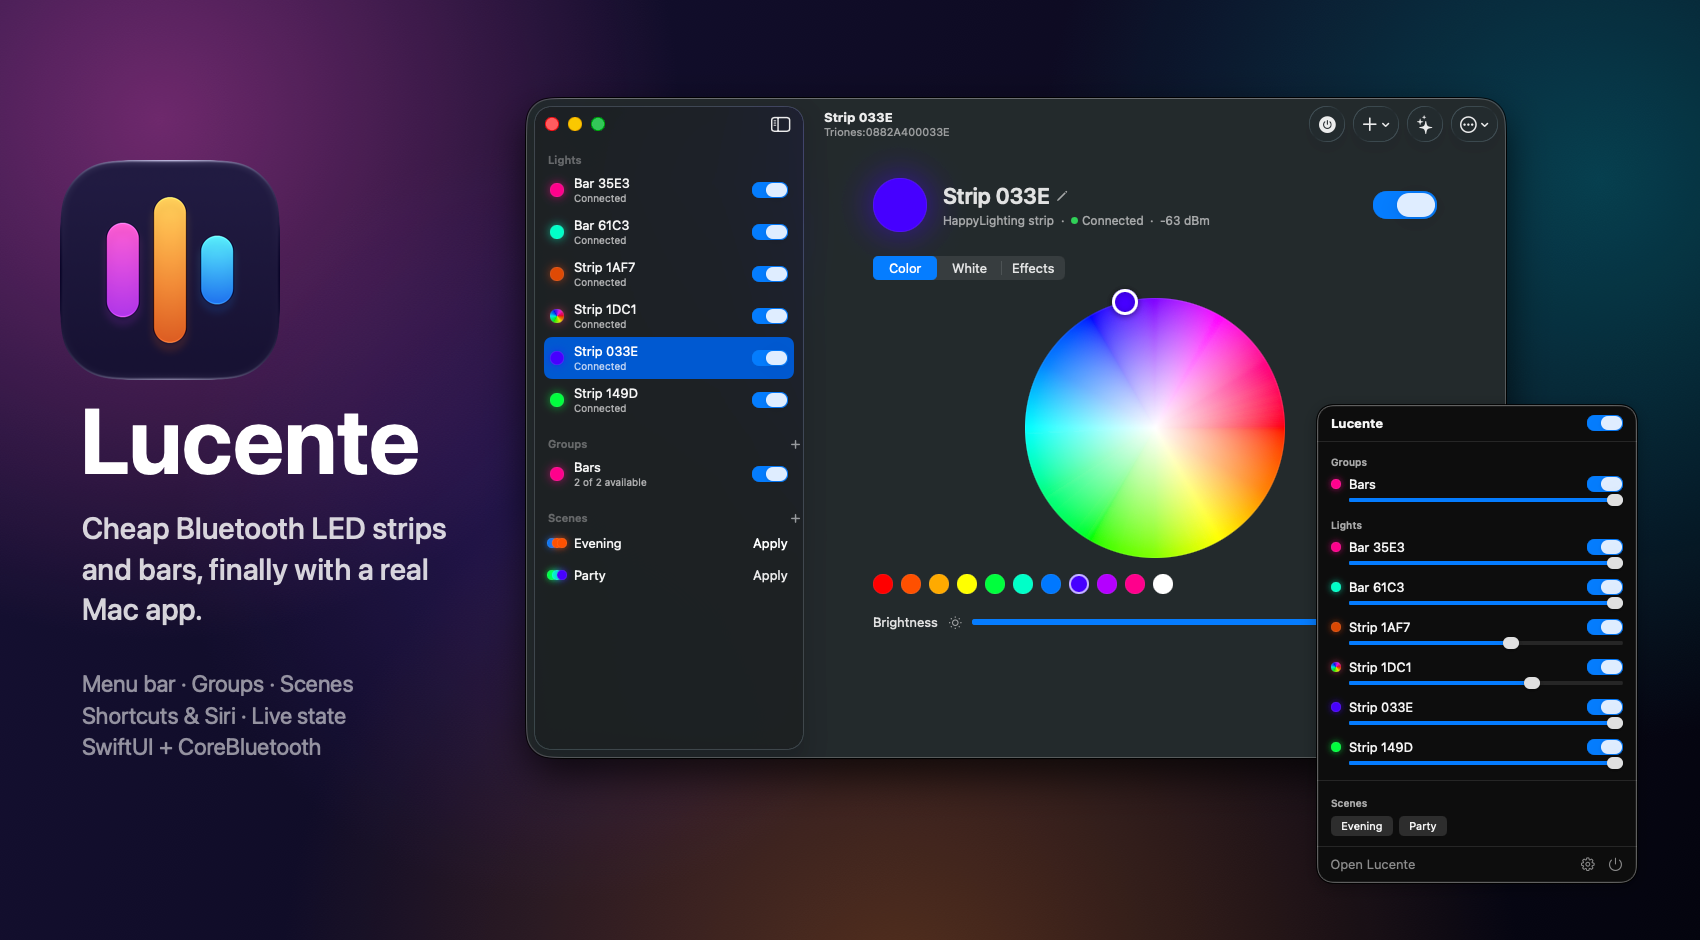
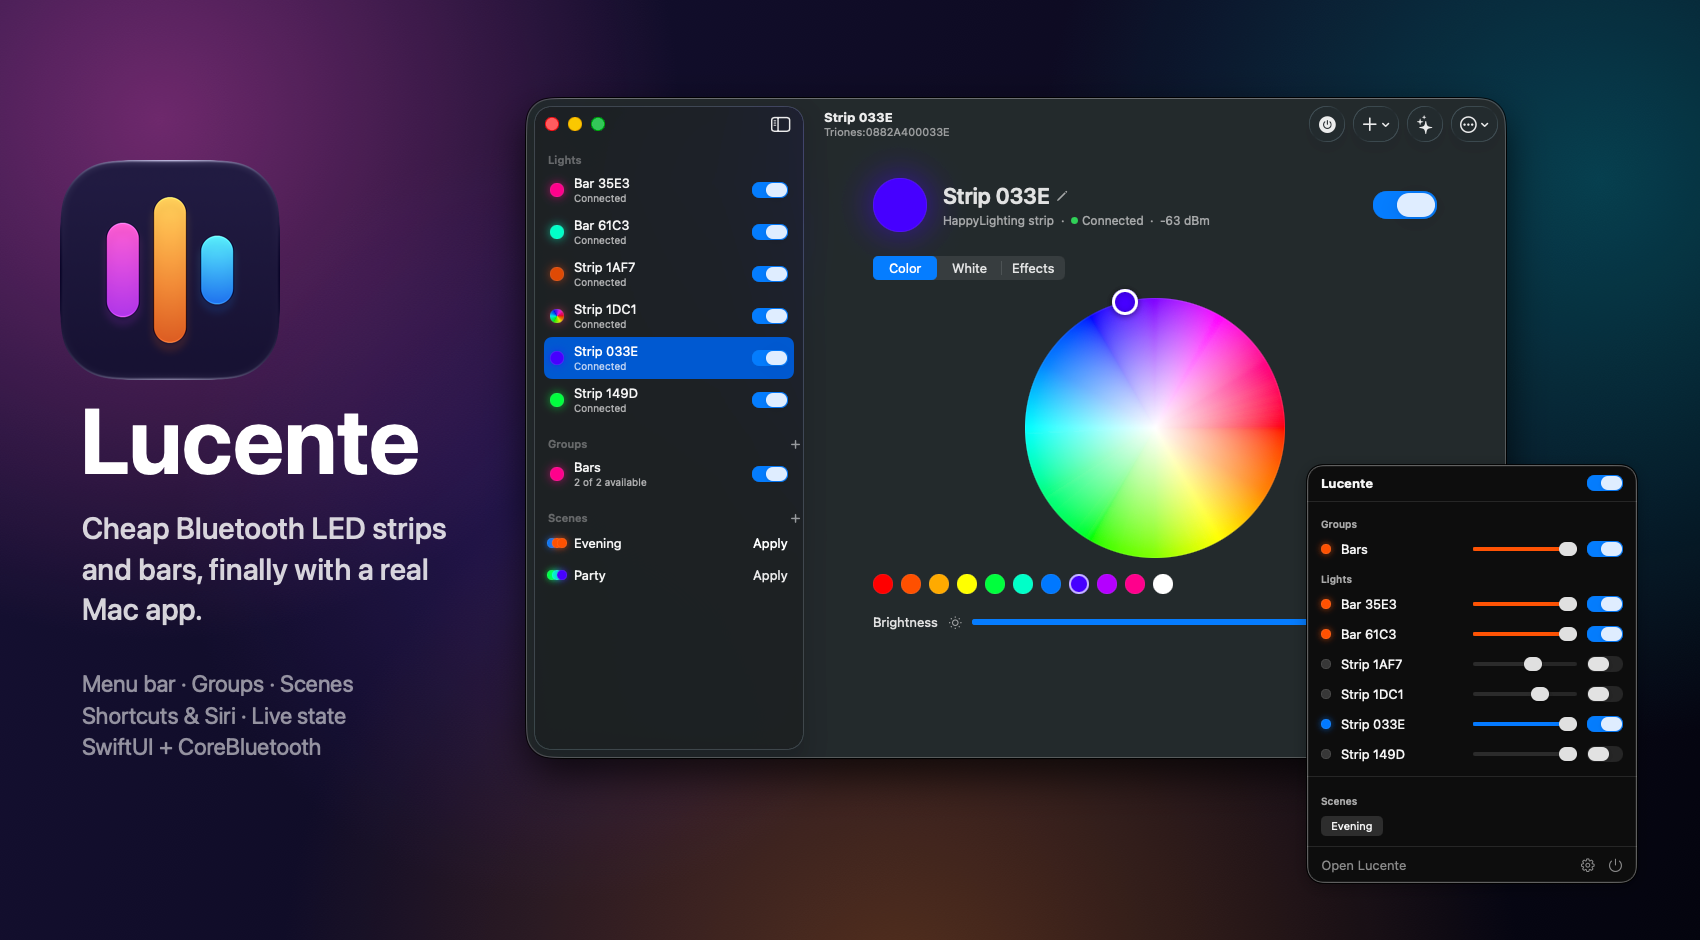
style(menubar): one-line rows with aligned, tinted brightness sliders
The brightness slider sat on its own line under each name, indented, running
under the power switch, and only appeared for lights that were on, so rows had
uneven heights. Each row is now a single line: swatch, name, a fixed-width
slider column, then the switch. Sliders line up down the panel, take the
light's colour (accent for pale colours, white and effects), and stay in place
but disabled while a light is off. Panel and hero screenshots refreshed.

Changed region(s): [[0.7482, 0.4319, 0.9665, 0.9255]]

diff --git a/App/Views/MenuBarPanel.swift b/App/Views/MenuBarPanel.swift
@@ -23,7 +23,7 @@ struct MenuBarPanel: View {
             Divider()
 
             ScrollView {
-                VStack(alignment: .leading, spacing: 4) {
+                VStack(alignment: .leading, spacing: 2) {
                     if store.lights.isEmpty {
                         Text(store.availability == .ready ? "Looking for lights…" : "Bluetooth isn't available.")
                             .foregroundStyle(.secondary)
@@ -91,7 +91,7 @@ struct MenuBarPanel: View {
             .padding(.horizontal, 14)
             .padding(.vertical, 10)
         }
-        .frame(width: 320)
+        .frame(width: 330)
     }
 }
 
@@ -103,10 +103,13 @@ private struct PanelHeading: View {
         Text(title)
             .font(.caption.weight(.semibold))
             .foregroundStyle(.secondary)
-            .padding(.top, 6)
+            .padding(.top, 8)
+            .padding(.bottom, 2)
     }
 }
 
+/// One line per light or group: name, brightness in a fixed column so the sliders line up down
+/// the panel, then the power switch. Off lights keep a disabled slider so rows don't jump around.
 private struct PanelRow: View {
     var state: LightState
     var name: String
@@ -114,23 +117,37 @@ private struct PanelRow: View {
     var available: Bool
     var send: (LightCommand) -> Void
 
+    static let sliderWidth: CGFloat = 104
+
     var body: some View {
-        VStack(alignment: .leading, spacing: 2) {
-            HStack(spacing: 8) {
-                Swatch(state: state, size: 10)
-                Text(name).lineLimit(1)
-                Spacer()
-                if capabilities.contains(.power) {
-                    PowerToggle(isOn: state.power == true) { send(.power($0)) }
+        HStack(spacing: 10) {
+            Swatch(state: state, size: 10)
+            Text(name)
+                .lineLimit(1)
+                .truncationMode(.tail)
+                .frame(maxWidth: .infinity, alignment: .leading)
+            Group {
+                if capabilities.contains(.brightness) {
+                    CompactSlider(value: state.brightness ?? 100) { send(.brightness($0)) }
+                        .tint(tint)
+                        .disabled(state.power != true)
+                } else {
+                    Color.clear
                 }
             }
-            if capabilities.contains(.brightness), state.power == true {
-                CompactSlider(value: state.brightness ?? 100) { send(.brightness($0)) }
-                    .padding(.leading, 18)
+            .frame(width: Self.sliderWidth)
+            if capabilities.contains(.power) {
+                PowerToggle(isOn: state.power == true) { send(.power($0)) }
             }
         }
-        .padding(.vertical, 3)
+        .frame(minHeight: 28)
         .opacity(available ? 1 : 0.5)
+    }
+
+    /// The light's own color, unless it's so pale the fill would vanish on a light panel.
+    private var tint: Color {
+        guard state.mode == .color, let rgb = state.color, rgb.hsv.saturation > 0.25 else { return .accentColor }
+        return Color(rgb)
     }
 }
 
@@ -143,7 +160,7 @@ private struct CompactSlider: View {
 
     var body: some View {
         Slider(value: $local, in: 1...100, onEditingChanged: { editing = $0 })
-            .controlSize(.mini)
+            .controlSize(.small)
             .onAppear { local = Double(value) }
             .onChange(of: value) { _, new in if !editing { local = Double(new) } }
             .onChange(of: local) { _, new in if Int(new.rounded()) != value { onChange(Int(new.rounded())) } }

diff --git a/README.md b/README.md
@@ -55,8 +55,9 @@ Swift 6 · SwiftUI · CoreBluetooth · App Intents · zero third-party dependenc
 
 ### The menu bar panel
 
-Every group and light with its power switch and a brightness slider, the scenes as one-click
-buttons, and a master switch for everything. The status icon fills in while any light is on.
+One line per group and light: its color, a brightness slider tinted to match, and a power
+switch, all lined up in columns. Scenes are one-click buttons, and a master switch covers
+everything. The status icon fills in while any light is on.
 
 With the panel enabled, closing the main window leaves Lucente running in the menu bar without a
 Dock icon.
